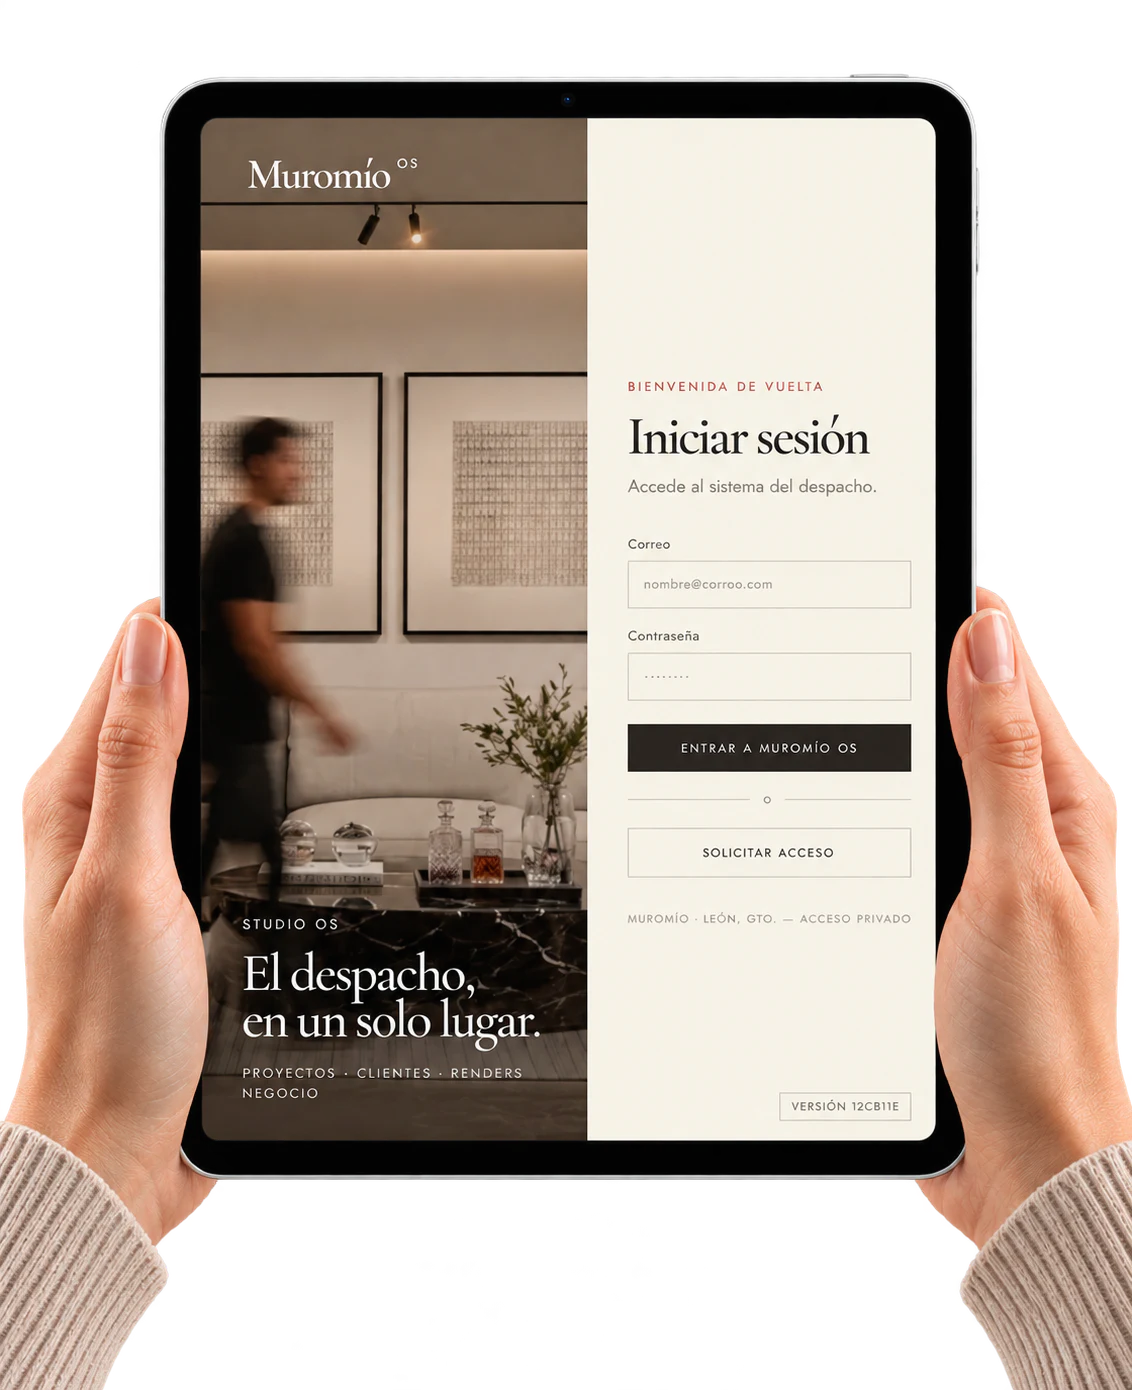
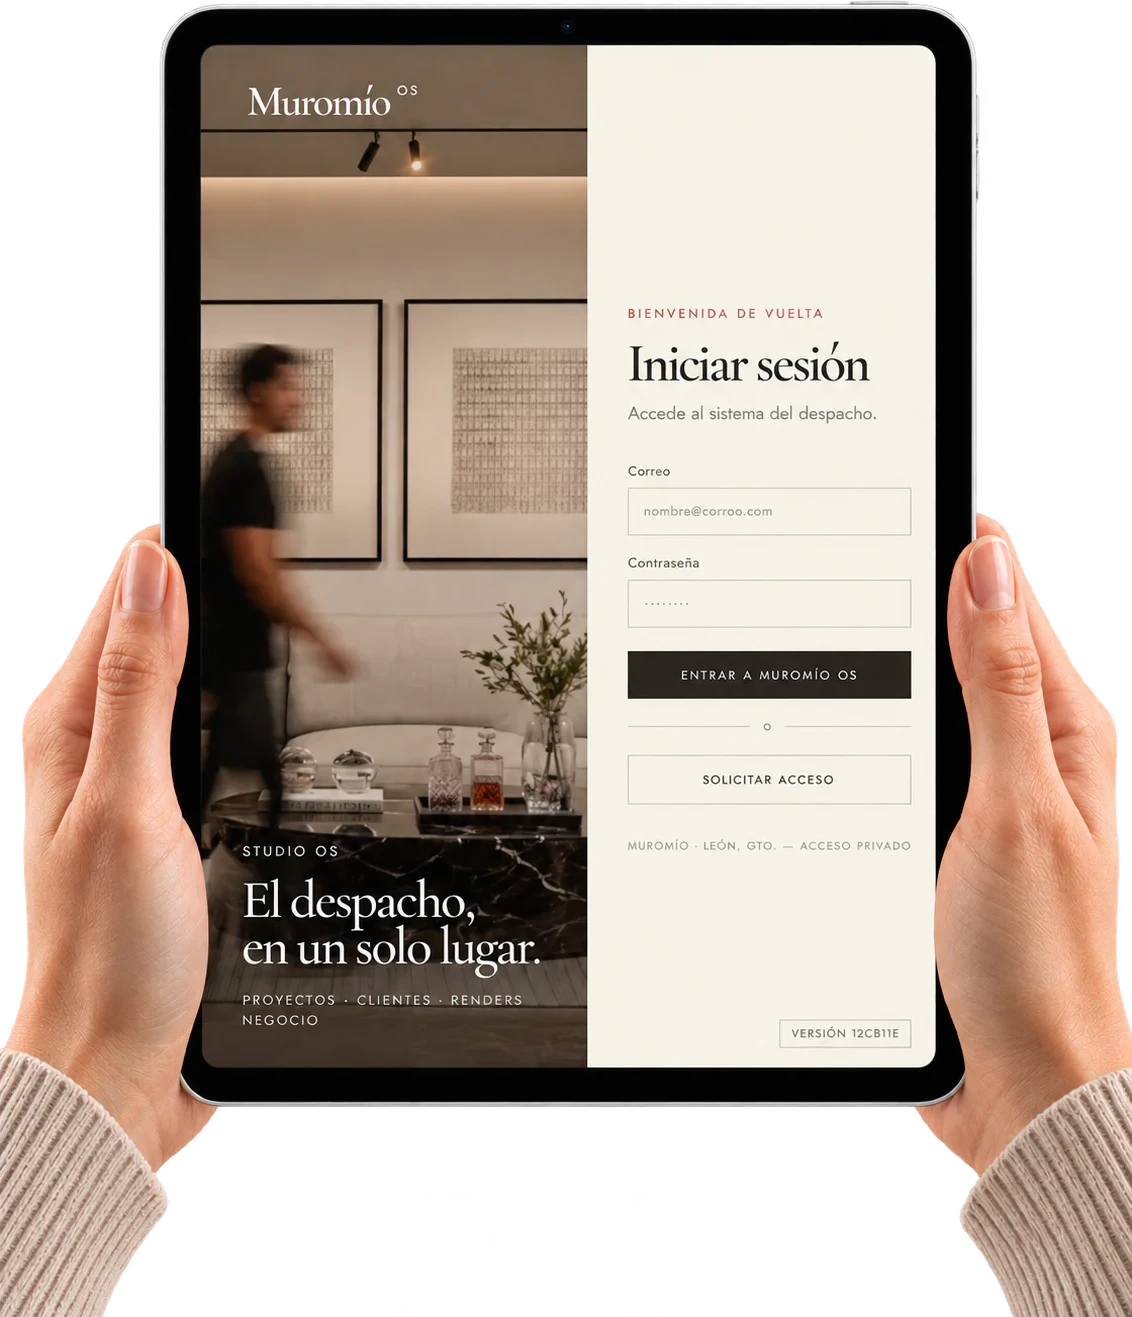
Tighten project image bounds and refresh Muromio showcase

diff --git a/index.html b/index.html
@@ -224,20 +224,20 @@ svg{fill:currentColor}
 .systems-story-copy>p{font-size:clamp(16px,1.45vw,20px);line-height:1.55;max-width:590px;margin-top:24px}
 .store-story{background:var(--cream)}
 .store-story::before{content:"";position:absolute;width:620px;height:620px;right:-230px;top:-260px;border-radius:50%;background:var(--pink);opacity:.6;filter:blur(3px)}
-.store-stage{position:relative;display:grid;grid-template-columns:1fr 1fr;align-items:center;gap:0;margin-top:clamp(34px,5vw,72px);padding:0 2% 70px;isolation:isolate}
-.store-device{position:relative;display:block;margin:0;translate:0 var(--scroll-lift,0px);scale:var(--scroll-scale,1);transition:transform .7s cubic-bezier(.16,1,.3,1),translate .16s linear,scale .16s linear}
+.store-stage{position:relative;display:grid;grid-template-columns:1fr 1fr;align-items:center;gap:0;margin-top:clamp(34px,5vw,72px);padding:0 2%;isolation:isolate}
+.store-device{position:relative;display:block;margin:0;line-height:0;translate:0 var(--scroll-lift,0px);scale:var(--scroll-scale,1);transition:transform .7s cubic-bezier(.16,1,.3,1),translate .16s linear,scale .16s linear}
 .store-device img{display:block;width:100%;height:auto;filter:drop-shadow(0 34px 36px rgba(17,17,17,.16))}
 .store-device-primary{width:108%;transform:rotate(-1.2deg);z-index:1}
 .store-device-secondary{width:108%;margin-left:-16%;transform:rotate(1.5deg);z-index:2}
 .store-device.in img{animation:systemFloat 7s ease-in-out infinite}.store-device-secondary.in img{animation-delay:.8s}
 .store-device:hover{z-index:3}.store-device-primary:hover{transform:translateY(-10px) rotate(-.5deg)}.store-device-secondary:hover{transform:translateY(-10px) rotate(1deg)}
-.story-label{position:absolute;left:4%;bottom:8%;z-index:4;background:var(--ink);color:var(--cream);padding:13px 18px;border-radius:999px;font:700 12px "Space Grotesk";letter-spacing:.07em;text-transform:uppercase;box-shadow:5px 5px 0 var(--red)}
+.story-label{position:absolute;left:4%;bottom:4%;z-index:4;background:var(--ink);color:var(--cream);padding:13px 18px;border-radius:999px;font:700 12px "Space Grotesk";letter-spacing:.07em;text-transform:uppercase;box-shadow:5px 5px 0 var(--red)}
 @keyframes systemFloat{0%,100%{transform:translateY(0)}50%{transform:translateY(-9px)}}
 
 .studio-story{background:#1d1815;color:var(--cream);padding-bottom:clamp(70px,8vw,120px)}
 .studio-story .wrap{position:relative;z-index:2}.studio-story .sec-tag{color:#d6b9a3}.studio-story h2{color:var(--cream);max-width:980px}.studio-story-copy>p{color:#d1c7bf}
-.studio-stage{display:grid;grid-template-columns:minmax(300px,.82fr) minmax(420px,1.18fr);align-items:center;gap:clamp(0px,2vw,30px);margin-top:30px;min-height:690px}
-.studio-device{display:block;position:relative;margin:0;translate:0 var(--scroll-lift,0px);scale:var(--scroll-scale,1);transition:transform .7s cubic-bezier(.16,1,.3,1),translate .16s linear,scale .16s linear}
+.studio-stage{display:grid;grid-template-columns:minmax(300px,.82fr) minmax(420px,1.18fr);align-items:center;gap:clamp(0px,2vw,30px);margin-top:30px;min-height:0}
+.studio-device{display:block;position:relative;margin:0;line-height:0;translate:0 var(--scroll-lift,0px);scale:var(--scroll-scale,1);transition:transform .7s cubic-bezier(.16,1,.3,1),translate .16s linear,scale .16s linear}
 .studio-device img{display:block;width:100%;height:auto;filter:drop-shadow(0 38px 38px rgba(0,0,0,.38))}
 .studio-device-login{width:min(48vw,620px);margin-left:-10%;transform:rotate(-2deg);z-index:2}
 .studio-device-home{width:min(69vw,920px);margin-left:-28%;transform:rotate(1.6deg)}
@@ -365,7 +365,7 @@ svg{fill:currentColor}
   .project-device{width:155vw;margin:18px -27.5vw -10px}
   .project-device-badge{right:22%;bottom:9%;font-size:10px;padding:8px 10px 8px 13px}.project-device-badge i{width:26px;height:26px}
   .mobile-story{padding:72px 0 0}.mobile-story-in{grid-template-columns:1fr;gap:0;min-height:0}.mobile-story-copy{padding:0}.mobile-story h2{font-size:clamp(44px,14vw,64px);max-width:350px}.mobile-story-copy p{font-size:16px}.mobile-story-link{margin-top:24px}.mobile-story-device{width:128vw;margin:-16px -22vw -28px -6vw;justify-self:start}
-  .systems-story{padding:76px 0 62px}.systems-story h2{font-size:clamp(43px,13vw,62px);max-width:360px}.systems-story-copy>p{font-size:16px;margin-top:18px}.store-story::before{width:330px;height:330px;right:-190px;top:-120px}.store-stage{grid-template-columns:1fr;gap:0;margin-top:34px;padding:0 0 60px}.store-device-primary{width:100%;transform:rotate(-1deg)}.store-device-secondary{width:100%;margin:-46px 0 0;transform:rotate(1deg)}.story-label{left:0;bottom:2px;font-size:10px;padding:11px 14px}
+  .systems-story{padding:76px 0 62px}.systems-story h2{font-size:clamp(43px,13vw,62px);max-width:360px}.systems-story-copy>p{font-size:16px;margin-top:18px}.store-story::before{width:330px;height:330px;right:-190px;top:-120px}.store-stage{grid-template-columns:1fr;gap:0;margin-top:34px;padding:0}.store-device-primary{width:100%;transform:rotate(-1deg)}.store-device-secondary{width:100%;margin:-46px 0 0;transform:rotate(1deg)}.story-label{left:0;bottom:3%;font-size:10px;padding:11px 14px}
   .studio-stage{display:grid;grid-template-columns:1fr;min-height:0;gap:0;margin-top:34px}.studio-device-login{position:relative;width:78vw;left:auto;top:auto;margin:0 auto;transform:rotate(-1deg);z-index:2}.studio-device-home{position:relative;width:100%;right:auto;bottom:auto;margin:-52px 0 0;transform:rotate(1deg);z-index:1}.studio-link{margin-top:22px}
   .computer{width:min(260px,74vw);height:min(190px,24vh);margin-top:4px}
   .cta .wrap{padding:64px 22px;gap:8px}
@@ -562,10 +562,10 @@ svg{fill:currentColor}
     </div>
     <div class="studio-stage" aria-label="Landing y acceso privado de Muromío mostrados en tabletas">
       <figure class="studio-device studio-device-login reveal-up">
-        <img src="assets/muromio-acceso-ipad.webp" alt="Pantalla de acceso privado de Muromío presentada en un iPad sostenido con ambas manos" width="1132" height="1390" loading="lazy">
+        <img src="assets/muromio-acceso-ipad.webp" alt="Pantalla de acceso privado de Muromío presentada en un iPad sostenido con ambas manos" width="1132" height="1317" loading="lazy">
       </figure>
       <a class="studio-device studio-device-home reveal-up" href="https://muromio.vercel.app" target="_blank" rel="noopener" aria-label="Visitar el proyecto Muromío">
-        <img src="assets/muromio-landing-ipad.webp" alt="Landing de Muromío presentada en un iPad sostenido con ambas manos" width="1374" height="1145" loading="lazy">
+        <img src="assets/muromio-landing-ipad.webp" alt="Landing de Muromío presentada en un iPad sostenido con ambas manos" width="1374" height="1002" loading="lazy">
       </a>
     </div>
   </div>
